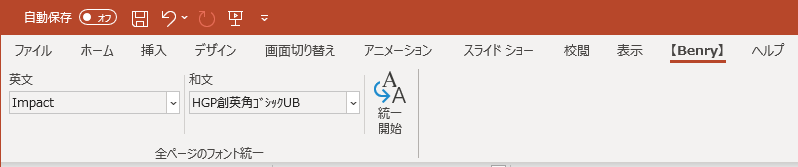
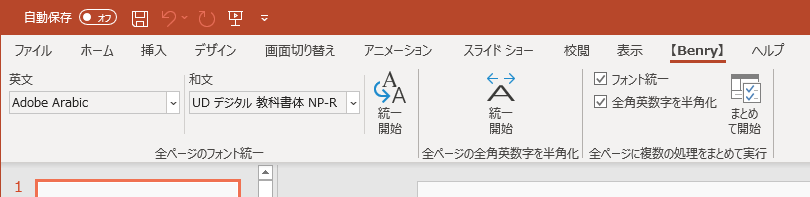
v1.3.0.0

diff --git a/Properties/AssemblyInfo.cs b/Properties/AssemblyInfo.cs
@@ -31,6 +31,6 @@ using System.Runtime.InteropServices;
 // すべての値を指定するか、以下のように '*' を使ってビルドおよびリビジョン番号を
 // 既定値にすることができます:
 // [assembly: AssemblyVersion("1.0.*")]
-[assembly: AssemblyVersion("1.1.1.*")]
-[assembly: AssemblyFileVersion("1.1.1.*")]
+[assembly: AssemblyVersion("1.3.*.*")]
+[assembly: AssemblyFileVersion("1.3.*.*")]
 

diff --git a/README.md b/README.md
@@ -32,6 +32,7 @@ Windows 10 Pro 64bitの Office 365で動作確認しています。
 
 |日付|バージョン|更新内容|
 |:-:|:-:|:-|
+|2020/10/27|v1.3.0.0|全角英字・数字を半角にする機能を追加し、さらにフォント統一とまとめて一度に処理する機能を追加|
 |2020/10/27|v1.2.0.0|英文と和文のフォントを別々に指定可能に|
 |2020/10/25|v1.1.1.0|簡易的に進捗状況を表示するプログレスバーを追加|
 |2020/10/25|v1.1.0.0| スマートアートやグループ化された図形内の文字に対応|
